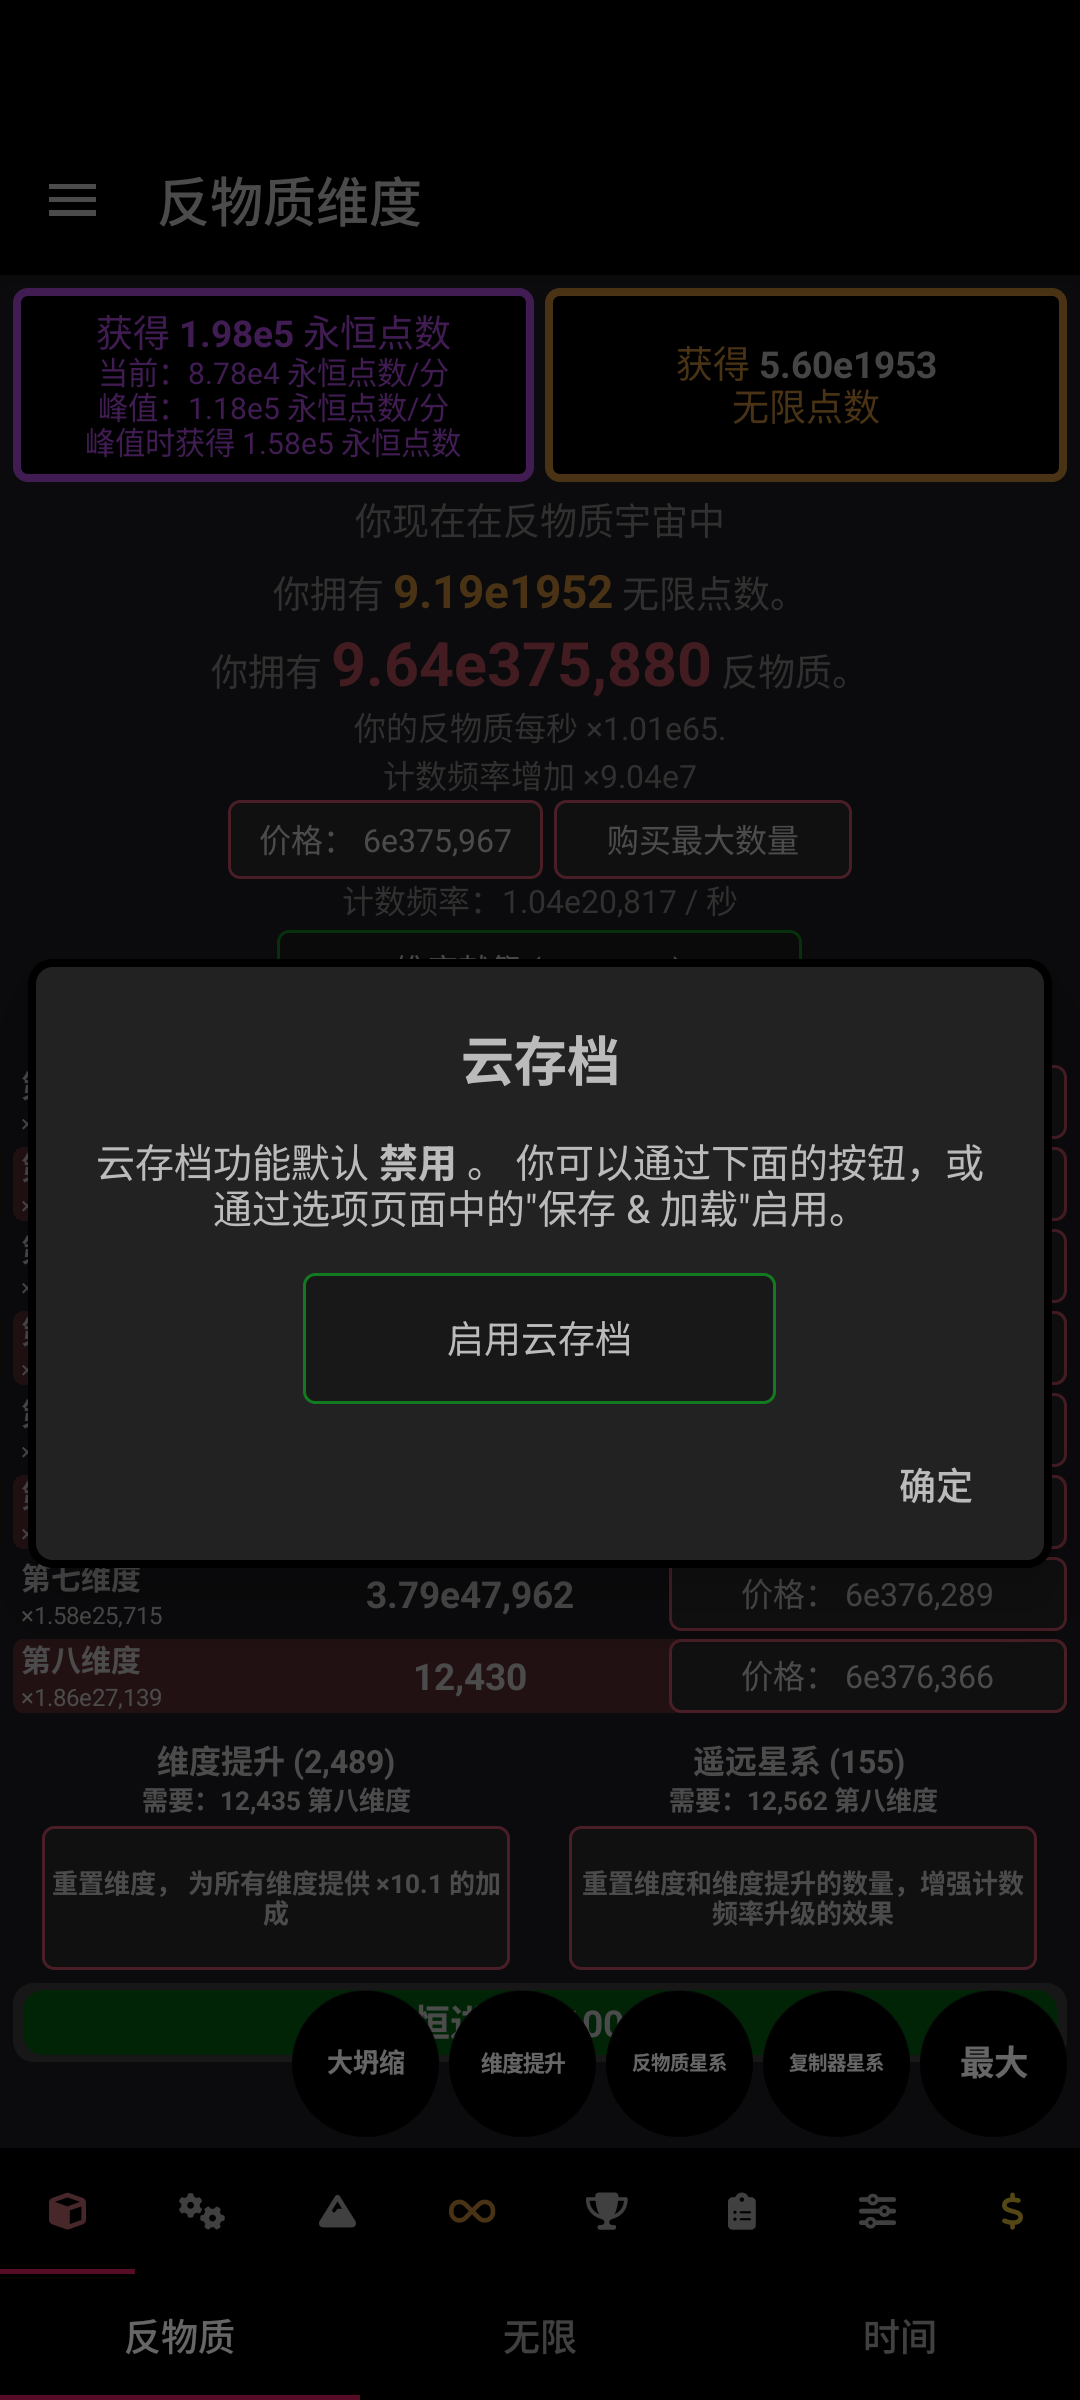
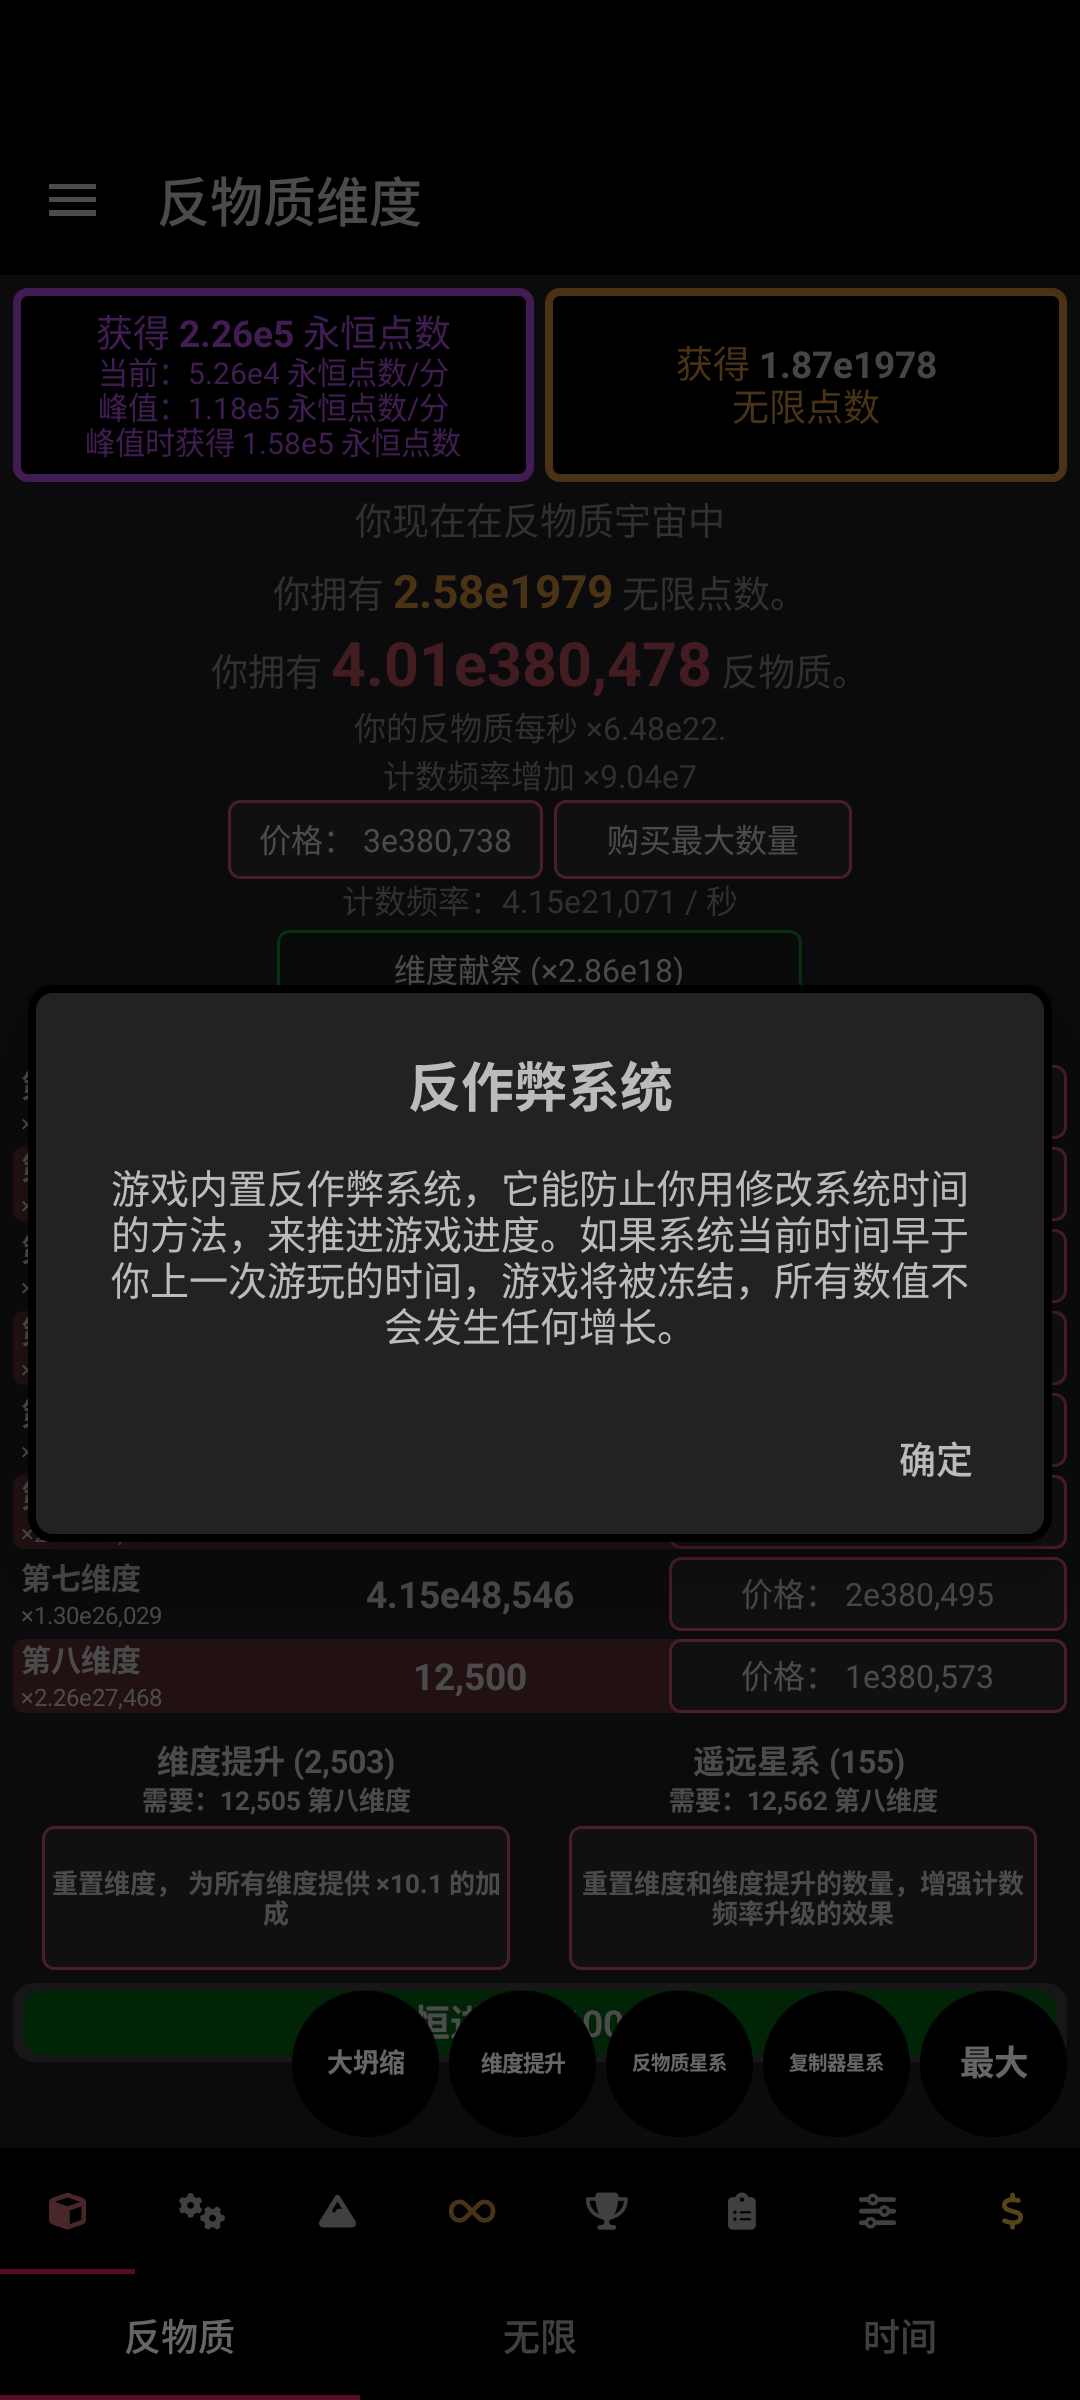
docs: 补充 P0 复验性能结果
- 记录合法永恒页 15 秒 gfxinfo：约 40.3fps、p95 32ms、Slow UI 16、Slow draw 229
- 按 p95<=16ms / Slow UI=0 口径判 FAIL；稳定版四渠道发布继续 BLOCKED

diff --git a/docs/FACTS.md b/docs/FACTS.md
@@ -9906,3 +9906,5 @@ TT 早已达标；真实阻断是 **EC 全 0**：`unlocked=0 / current=0 / compl
 - `[R101 启动级回归：IP 除数补丁 VerifyError]` 同轮发现旧候选 `025d9d0a…` 启动即崩：`java.lang.VerifyError: prestige.e.d() ... [0x2D] register v2 has type Undefined but expected Double`。根因：`patch_ip_gain_scale` 把 Kotlin `OrekiIpGainScale.apply(D)D` 误写成 `apply(DD)D` 并传 `{v0,v1,v2,v3}`；已改为 `apply(D)D` + `{v0,v1}`。修复后 APK 正常冷启动、无 FATAL/VerifyError。
 - `[R101 别名表根因修正]` `FIELD_ALIASES_321` 的 `bq0.g0` 从错误目标 `iq0.z`（`Lup0;`，setter `Player.E0` 写 eternities）改为 `iq0.e`（`Lpp0;`，真实 infinities），移除错误的 `iq0.z` 类型修正；并在即时挑战补丁增加负向构建守卫 `Liq0;->z` 禁止出现，防止再次把无限次数写进永恒次数。
 - `[R101 合法永恒存档回归 PASS]` 合法存档 `eternities=25 / bigEternities=14 / EP=66042.09 / infinities=126617` 注入修复后 MOD，冷启动后正常推进（运行后 26/15/约3.7e6/约1.2e5），关键字段未被清零或改写；GUI 显示永恒点数与时间页签。证据 `reports/R101-p0-fix/legal-save-before-mod.json`、`mod-legal-main.png`。
+
+- `[R101 P0 复验性能 FAIL]` 2026-11-11 22:08 同一 AVD 合法永恒页 15 秒 `gfxinfo`：604 帧（约 40.3 fps）、现代 jank 263（43.54%）、p95 32 ms、p99 42 ms、Missed Vsync 0、Slow UI 16、Slow issue draw commands 229；按 p95≤16ms、Slow UI=0 口径 **FAIL**。P0 已修复，但性能门禁未过，稳定版四渠道发布继续 BLOCKED。证据 `reports/R101-p0-fix/gfxinfo-15s.txt`。

diff --git a/reports/R101-p0-fix/README.md b/reports/R101-p0-fix/README.md
@@ -66,6 +66,10 @@
 - `eternities=0 / bigEternities=0 / EP=0 / infinities=11`
 - GUI 仍为早期阶段；证据：`official-restart-main.png`
 
+### 5.6 性能门禁（FAIL，本次复测）
+
+同一 AVD 合法永恒页面 15 秒 `gfxinfo`：604 帧（约 40.3 fps）、现代 jank 263（43.54%）、p95 32 ms、p99 42 ms、Missed Vsync 0、Slow UI 16、Slow issue draw commands 229。按当前口径（p95 ≤16ms、Slow UI=0）判定 **FAIL**，45/60 fps 未达。证据：`gfxinfo-15s.txt`。
+
 ### 5.5 合法已永恒存档回归（PASS）
 
 把合法存档（`eternities=25 / bigEternities=14 / EP=66042.09 / infinities=126617`）注入修复后 MOD，冷启动后进度正常推进（离线收益与自动永恒），关键字段未清零、未被改写成错误值：
@@ -79,8 +83,8 @@
 - P0 跨版本存档污染：**PASS**（修复后 MOD→官方导入 0/0/0/11，重启不变）
 - 官方 GUI 阶段门禁：**PASS**（无 11 次永恒/时间研究）
 - 合法存档回归：**PASS**
-- 性能 30 FPS 门禁：**NOT RUN（本次未展开）**；历史 FAIL 记录保留，不据此发布稳定版
-- 稳定版四渠道发布：**BLOCKED**（P0 已修复，但性能门禁与完整 180 分钟验收未完成）
+- 性能门禁：**FAIL**（15s 约 40.3fps，p95 32ms、Slow UI 16、Slow draw 229；未达 p95 ≤16ms / Slow UI=0）
+- 稳定版四渠道发布：**BLOCKED**（P0 已修复，但性能门禁 FAIL、完整 180 分钟验收未完成）
 
 ## 7. 证据文件
 

diff --git a/tasks/R101-ACCEPTANCE.md b/tasks/R101-ACCEPTANCE.md
@@ -427,3 +427,5 @@ invoke-virtual Player->x()                                    # 紧接读取
[1 lines of base64/hex data omitted]
 - 验收：MOD 新档首次大坍缩后 `0/0/0/11`；MOD 导出→官方 3.21 导入→冷启动→重启均 `0/0/0/11`，GUI 无 11 次永恒/时间研究页；合法永恒存档注入后正常推进（25→26 / 14→15 / EP 增长）。
 - 状态：P0 PASS；性能 30 FPS 门禁本次 NOT RUN，稳定版四渠道发布继续 BLOCKED。
+
+- 性能复测（2026-11-11 22:08）：合法永恒页 15 秒 604 帧（约 40.3 fps）、p95 32 ms、Slow UI 16、Slow draw 229；按当前 p95≤16ms 口径 **FAIL**，稳定版发布继续 BLOCKED。
